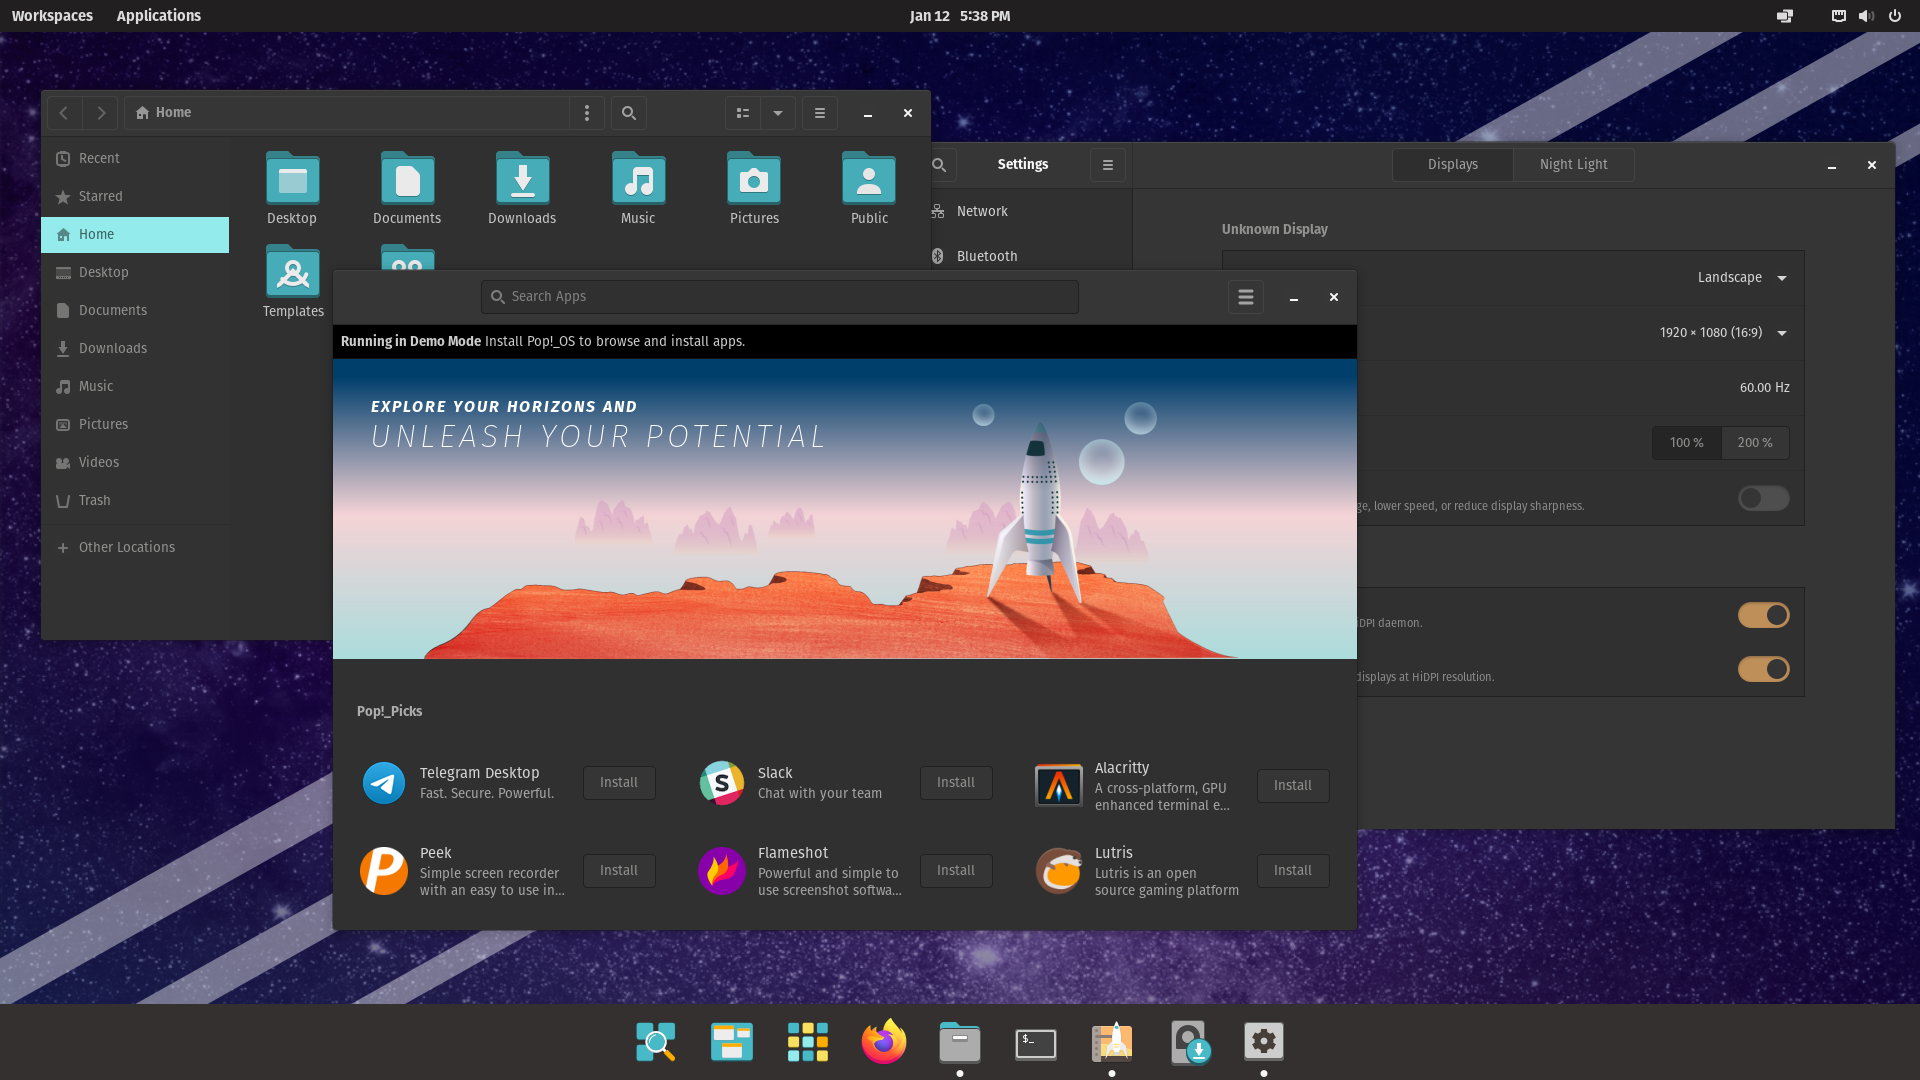
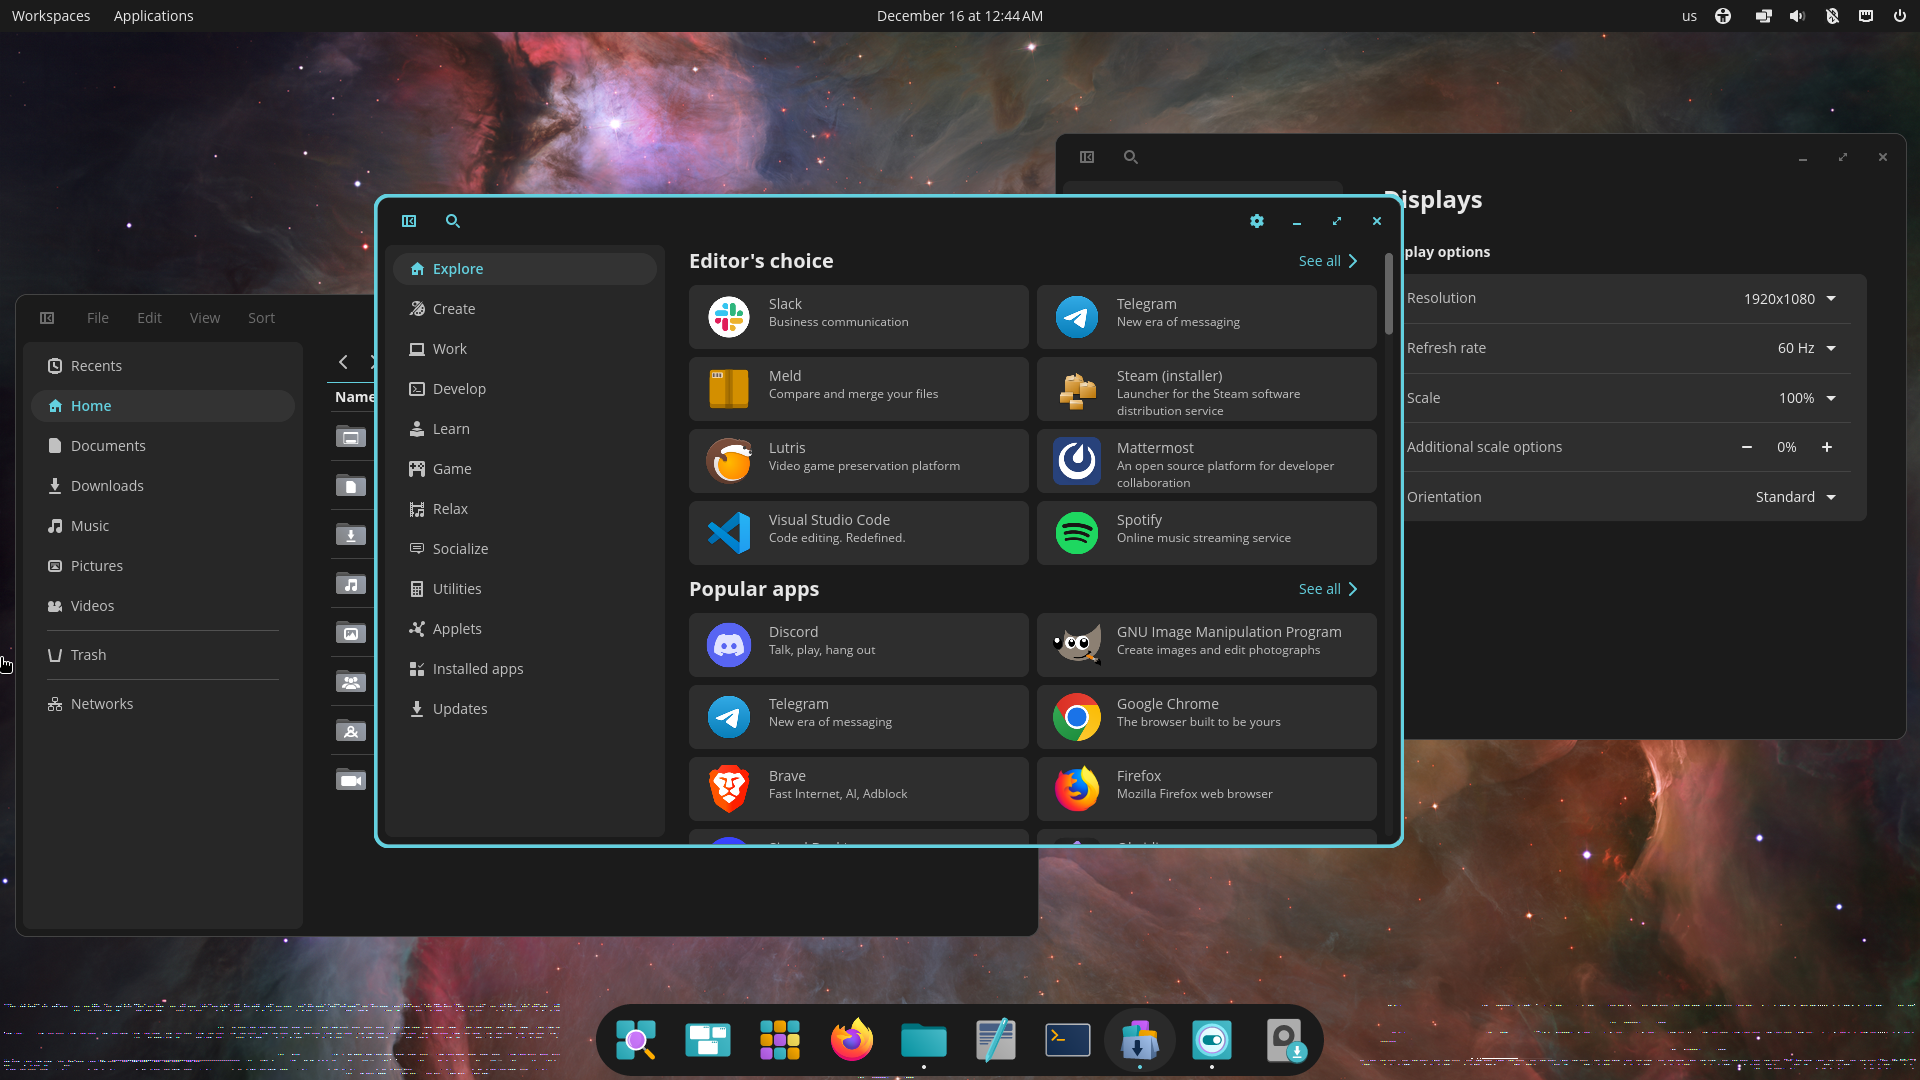
Update Pop!_OS info

diff --git a/switching-to-linux/index.html b/switching-to-linux/index.html
@@ -9,7 +9,7 @@
 	<body>
 		<div class="main">
 			<h1>Switching to Linux</h1>
-			<h3 style="text-align:center">By <a href="https://github.com/LambdaGaming">OPGman<br></a>Published on June 12, 2024<br>Last updated on December 12, 2025</h3>
+			<h3 style="text-align:center">By <a href="https://github.com/LambdaGaming">OPGman<br></a>Published on June 12, 2024<br>Last updated on December 15, 2025</h3>
 			<h2>Table of Contents</h2>
 			<div class="toc">
 				<ol>
@@ -370,7 +370,7 @@
 					<li>Includes starter guide: No</li>
 					<li>Includes GUI software manager: Yes</li>
 					<li>Base distro: Ubuntu</li>
-					<li>Default desktop environment: Customized GNOME (Soon switching to COSMIC)</li>
+					<li>Default desktop environment: COSMIC</li>
 					<li>Release type: Periodical, roughly every 6-8 months</li>
 				</ul>
 				<img src="pop.png">
